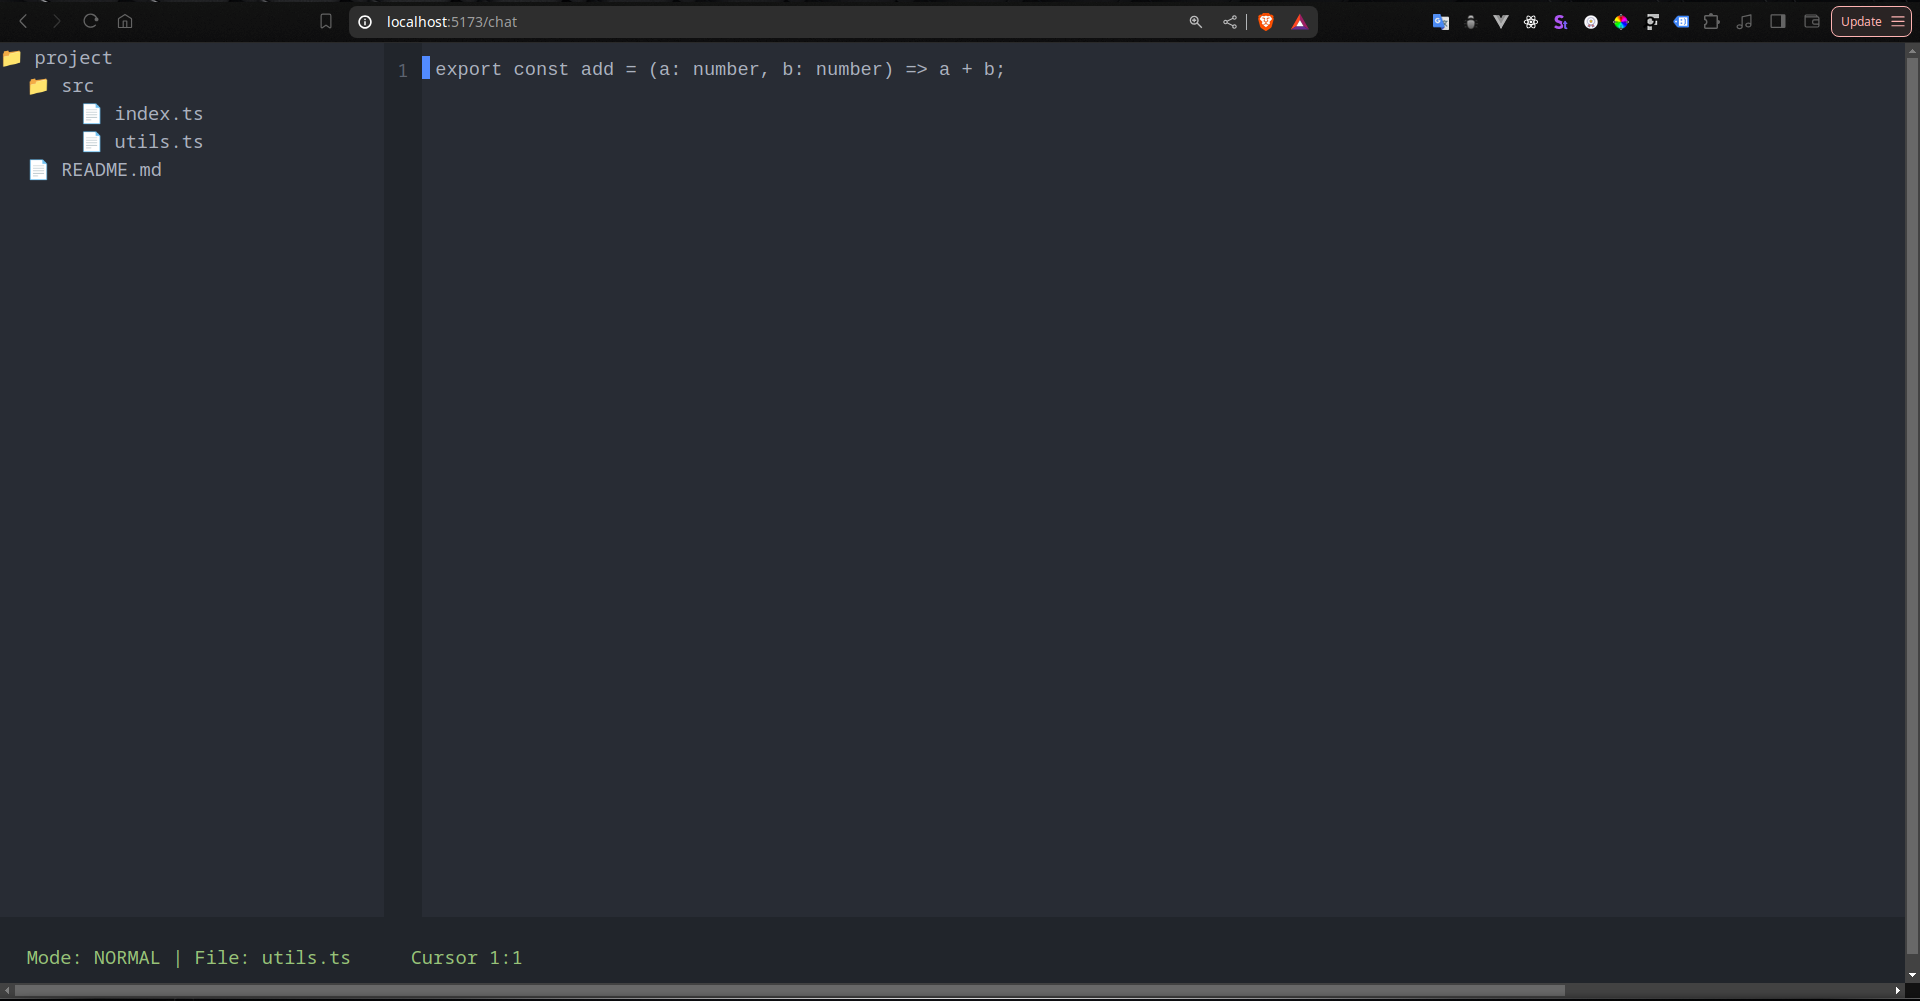
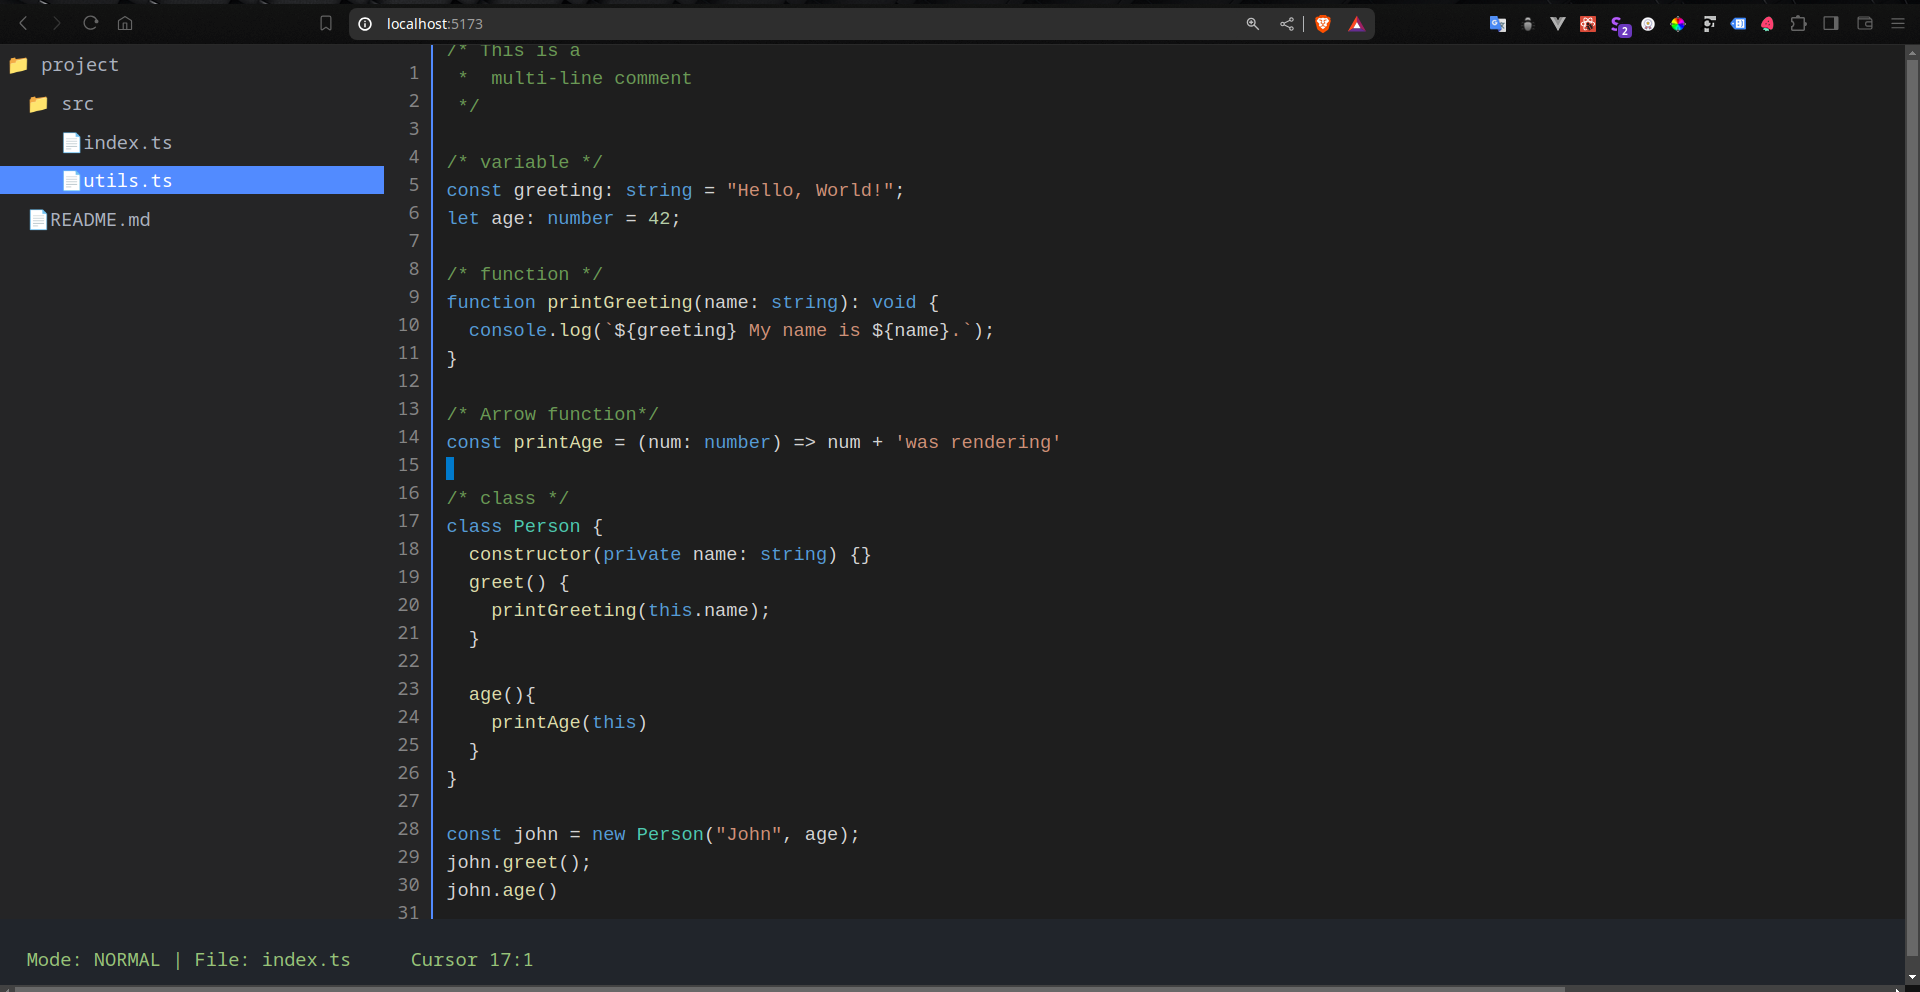
feat: add syntax highlighting

diff --git a/src/components/nvim.tsx b/src/components/nvim.tsx
@@ -7,7 +7,9 @@ import {
   DialogTitle,
   DialogDescription,
 } from "../components/ui/dialog";
-import { Cursor, FileSystemItem, Folder, Mode } from "@/types";
+import { Cursor, FileSystemItem, Folder, Mode, File } from "@/types";
+import { Highlight, themes } from "prism-react-renderer";
+import { getLanguage } from "@/lib/utils";
 
 const isFolder = (item: FileSystemItem): item is Folder => "children" in item;
 
@@ -27,7 +29,24 @@ const NeovimSimulator: React.FC = () => {
             {
               name: "index.ts",
               depth: 45,
-              content: ['console.log("Hello, World!");'],
+              content: [
+                "// This is a single-line comment",
+                "/* This is a",
+                "   multi-line comment */",
+                'const greeting: string = "Hello, World!";',
+                "let count: number = 42;",
+                "function printGreeting(name: string): void {",
+                "  console.log(`${greeting} My name is ${name}.`);",
+                "}",
+                "class Person {",
+                "  constructor(private name: string) {}",
+                "  greet() {",
+                "    printGreeting(this.name);",
+                "  }",
+                "}",
+                'const john = new Person("John");',
+                "john.greet();",
+              ],
             },
             {
               name: "utils.ts",
@@ -115,13 +134,14 @@ export function multiply(a: number, b: number): number {
       case "ArrowUp":
         setFileSystemCursor((prev) => Math.max(prev - 1, 0));
         break;
-      case "Enter":
+      case "Enter": {
         const selectedItem = flattenedFileSystem[fileSystemCursor];
         if (!isFolder(selectedItem)) {
           openFile(selectedItem);
           setFocusedCmp("editor");
         }
         break;
+      }
     }
   };
 
@@ -198,7 +218,7 @@ export function multiply(a: number, b: number): number {
 
   const moveCursor = (dx: number, dy: number) => {
     setCursor((prev) => {
-      let newLine = Math.max(0, Math.min(lines.length - 1, prev.line + dy));
+      const newLine = Math.max(0, Math.min(lines.length - 1, prev.line + dy));
       let newCh = Math.max(0, Math.min(lines[newLine].length, prev.ch + dx));
 
       if (newLine !== prev.line) {
@@ -303,7 +323,6 @@ export function multiply(a: number, b: number): number {
       </div>
     ));
   };
-
   return (
     <div className="flex flex-row" onKeyDown={handleKeyDown}>
       {/* File system */}
@@ -373,24 +392,41 @@ export function multiply(a: number, b: number): number {
               outline: focusedCmp === "editor" ? "2px solid #528bff" : "none",
             }}
           >
-            {lines.map((line, i) => (
-              <div key={i}>
-                {line}
-                {i === cursor.line && focusedCmp === "editor" && (
-                  <span
-                    style={{
-                      position: "absolute",
-                      left: `${cursor.ch * 8.4}px`, // Approximate character width
-                      height: "1.2em",
-                      borderLeft:
-                        mode === "insert"
-                          ? "2px solid #528bff"
-                          : "6px solid #528bff",
-                    }}
-                  />
-                )}
-              </div>
-            ))}
+            <Highlight
+              theme={themes.vsDark}
+              code={lines.join("\n")}
+              language={getLanguage(currentFile?.name || "")}
+            >
+              {({ tokens, getLineProps, getTokenProps }) => (
+                <>
+                  {tokens.map((line, lineIndex) => (
+                    <div
+                      key={lineIndex}
+                      {...getLineProps({ line })}
+                      style={{ position: "relative", minHeight: "1.2em" }}
+                    >
+                      {line.map((token, tokenIndex) => (
+                        <span key={tokenIndex} {...getTokenProps({ token })} />
+                      ))}
+                      {lineIndex === cursor.line && focusedCmp === "editor" && (
+                        <span
+                          style={{
+                            position: "absolute",
+                            left: `${cursor.ch * 8.4}px`,
+                            top: 0,
+                            height: "1.2em",
+                            borderLeft:
+                              mode === "insert"
+                                ? "2px solid #007ACC"
+                                : "6px solid #007ACC",
+                          }}
+                        />
+                      )}
+                    </div>
+                  ))}
+                </>
+              )}
+            </Highlight>
           </pre>
         </div>
         <span

diff --git a/src/lib/utils.ts b/src/lib/utils.ts
@@ -1,7 +1,20 @@
-import { SyntaxSegment } from "@/types";
 import { type ClassValue, clsx } from "clsx";
 import { twMerge } from "tailwind-merge";
 
 export function cn(...inputs: ClassValue[]) {
   return twMerge(clsx(inputs));
 }
+
+export const getLanguage = (fileName: string) => {
+  const extension = fileName.split(".").pop()?.toLowerCase();
+  switch (extension) {
+    case "js":
+      return "javascript";
+    case "ts":
+      return "typescript";
+    case "md":
+      return "markdown";
+    default:
+      return "typescript";
+  }
+};
